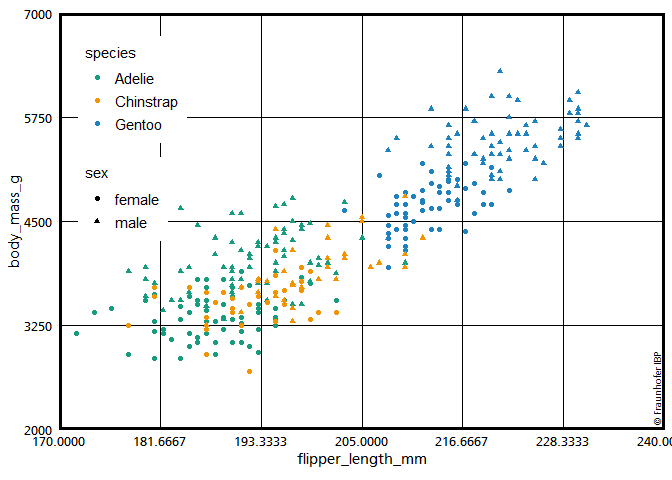
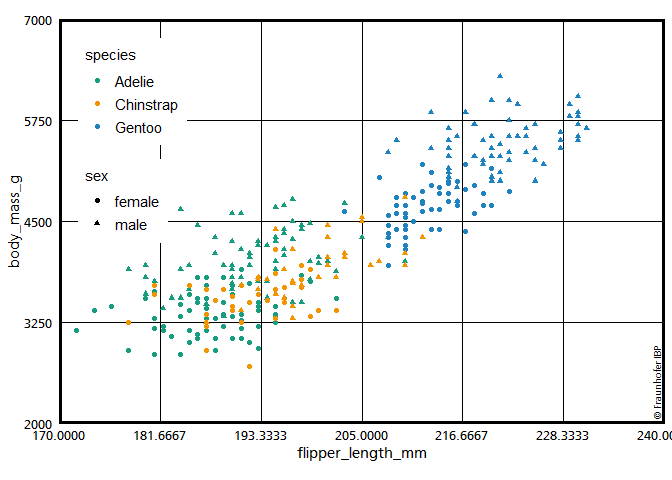
added coord_ibp_cartesian to automatically calculate the aspect ratio of the plot

diff --git a/README.md b/README.md
@@ -76,7 +76,7 @@ ggplot(data = ., aes(x=flipper_length_mm, y = body_mass_g)) +
   scale_y_ibp_cont() +
   scale_colour_ibp() +
   geom_fraunhofer_label() +
-  coord_fixed()
+  coord_ibp_cartesian()
 }
 #> Warning in grid.Call(C_textBounds, as.graphicsAnnot(x$label), x$x, x$y, :
 #> Zeichensatzfamilie in der Windows Zeichensatzdatenbank nicht gefunden
@@ -100,7 +100,7 @@ ggplot(data = ., aes(x=flipper_length_mm, y = body_mass_g)) +
   scale_y_ibp_cont() +
   scale_colour_ibp() +
   geom_fraunhofer_label() +
-  coord_fixed()
+  coord_ibp_cartesian()
 }
 #> Warning in grid.Call(C_stringMetric, as.graphicsAnnot(x$label)):
 #> Zeichensatzfamilie in der Windows Zeichensatzdatenbank nicht gefunden
@@ -139,12 +139,23 @@ ggplot(data = ., aes(x=flipper_length_mm, y = body_mass_g)) +
 <img src="man/figures/README-bad code-1.png" width="100%" />
 
 Die Linien für die “Grid”-Quadrate sind abhängig von den Daten der X und
-Y Achse, sowie der Aspekt-Ratio des Plots. Standardmäßig produziert
-`scale_x_ibp_cont` 7 Linien (+ Rand), sowie `scale_y_ibp_cont` 5 Linien
-(+Rand) und besitzen dabei eine Aspekt-Ratio von 5.5/8. Je nach Range
-der Daten müssen diese Werte manual angepasst werden. Eine automatische
-Lösung wäre sicher wünschenswert, aber wohl auch aufwendiger.
-`coord_fixed` ist auch notwendig.
+Y Achse, sowie der Aspekt-Ratio des Plots. Es gibt jetzt für kartesische
+Koordinaten nun die Funktion `coord_ibp_cartesian()`, die die
+Aspekt-Ratio automatisch korrekt setzt. Dabei wird folgende
+Formel/Funktion verwendet:
+
+``` r
+                    aspect = function(self, ranges) {
+                      d_x = diff(ranges$x.major_source)[1]
+                      d_y = diff(ranges$y.major_source)[1]
+
+                      (d_x * diff(ranges$y.range)) / (d_y * diff(ranges$x.range))
+                    }
+```
+
+Gleichzeitig ersetzt es das bisher benötigte `coord_ibp_cartesian()`,
+indem es sonst die gleichen Funktionen hat. Außerdem ist es nicht mehr
+nötig, in `theme_ibp` die Aspekt-Ratio anzugeben\!
 
 ``` r
 palmerpenguins::penguins %>% 
@@ -152,12 +163,12 @@ palmerpenguins::penguins %>%
 {
 ggplot(data = ., aes(x=flipper_length_mm, y = body_mass_g)) +
   geom_point(aes(colour=species, shape = sex)) +
-  theme_ibp(y_pos_leg = 0.7, aspect = 5/7.5, ibp_family = "Felix Titling") +
+  theme_ibp(y_pos_leg = 0.7,  ibp_family = "Felix Titling") +
   scale_x_ibp_cont() +
   scale_y_ibp_cont() +
   scale_colour_ibp() +
   geom_fraunhofer_label() +
-  coord_fixed()
+  coord_ibp_cartesian()
 }
 #> Warning in grid.Call(C_textBounds, as.graphicsAnnot(x$label), x$x, x$y, :
 #> Zeichensatzfamilie in der Windows Zeichensatzdatenbank nicht gefunden
@@ -176,12 +187,12 @@ palmerpenguins::penguins %>%
 {
 ggplot(data = ., aes(x=bill_length_mm, y = bill_depth_mm)) +
   geom_point(aes(colour=species, shape = sex)) +
-  theme_ibp(y_pos_leg = 0.65, aspect = 5/9.5) +
+  theme_ibp(y_pos_leg = 0.65) +
   scale_x_ibp_cont(limits = c(32,60), n = 8) +
   scale_y_ibp_cont(limits = c(12.5,22)) +
   scale_colour_ibp(values = ibp_cols$old[4:6]) +
   geom_fraunhofer_label() +
-  coord_fixed()
+  coord_ibp_cartesian()
 }
 #> Warning in grid.Call(C_textBounds, as.graphicsAnnot(x$label), x$x, x$y, :
 #> Zeichensatzfamilie in der Windows Zeichensatzdatenbank nicht gefunden
@@ -207,7 +218,7 @@ ggplot(dat , aes(y = rndvalue, x = date)) +
   scale_y_ibp_cont() +
   scale_colour_ibp(values = ibp_cols$all[4:5]) +
   geom_fraunhofer_label_date() +
-  coord_fixed() 
+  coord_ibp_cartesian() 
 #> Warning in grid.Call(C_textBounds, as.graphicsAnnot(x$label), x$x, x$y, :
 #> Zeichensatzfamilie in der Windows Zeichensatzdatenbank nicht gefunden
 
@@ -230,14 +241,14 @@ ggplot(dat2 , aes(y = rndvalue, x = date)) +
   # Wichtig:
   # Ich selber habe hier Fehlermeldungen bekommen, wenn ich color = ts in den ggplot aes gesteckt habe
   # und Gleichzeitig geom_fraunhofer_label_date verweden hab.
-  theme_ibp(aspect = 5/8.5) + 
+  theme_ibp() + 
   scale_x_ibp_datetime(n = 8) +
   # leading rundet die Grenzen der Achse!
   scale_y_ibp_cont(leading = 2) +
   scale_colour_ibp(values = ibp_cols$all[4:5]) +
   geom_fraunhofer_label_datetime() +
   theme(axis.text.x = element_text(angle = 45, hjust = 1)) +
-  coord_fixed() 
+  coord_ibp_cartesian() 
 #> Warning in grid.Call(C_textBounds, as.graphicsAnnot(x$label), x$x, x$y, :
 #> Zeichensatzfamilie in der Windows Zeichensatzdatenbank nicht gefunden
 ```
